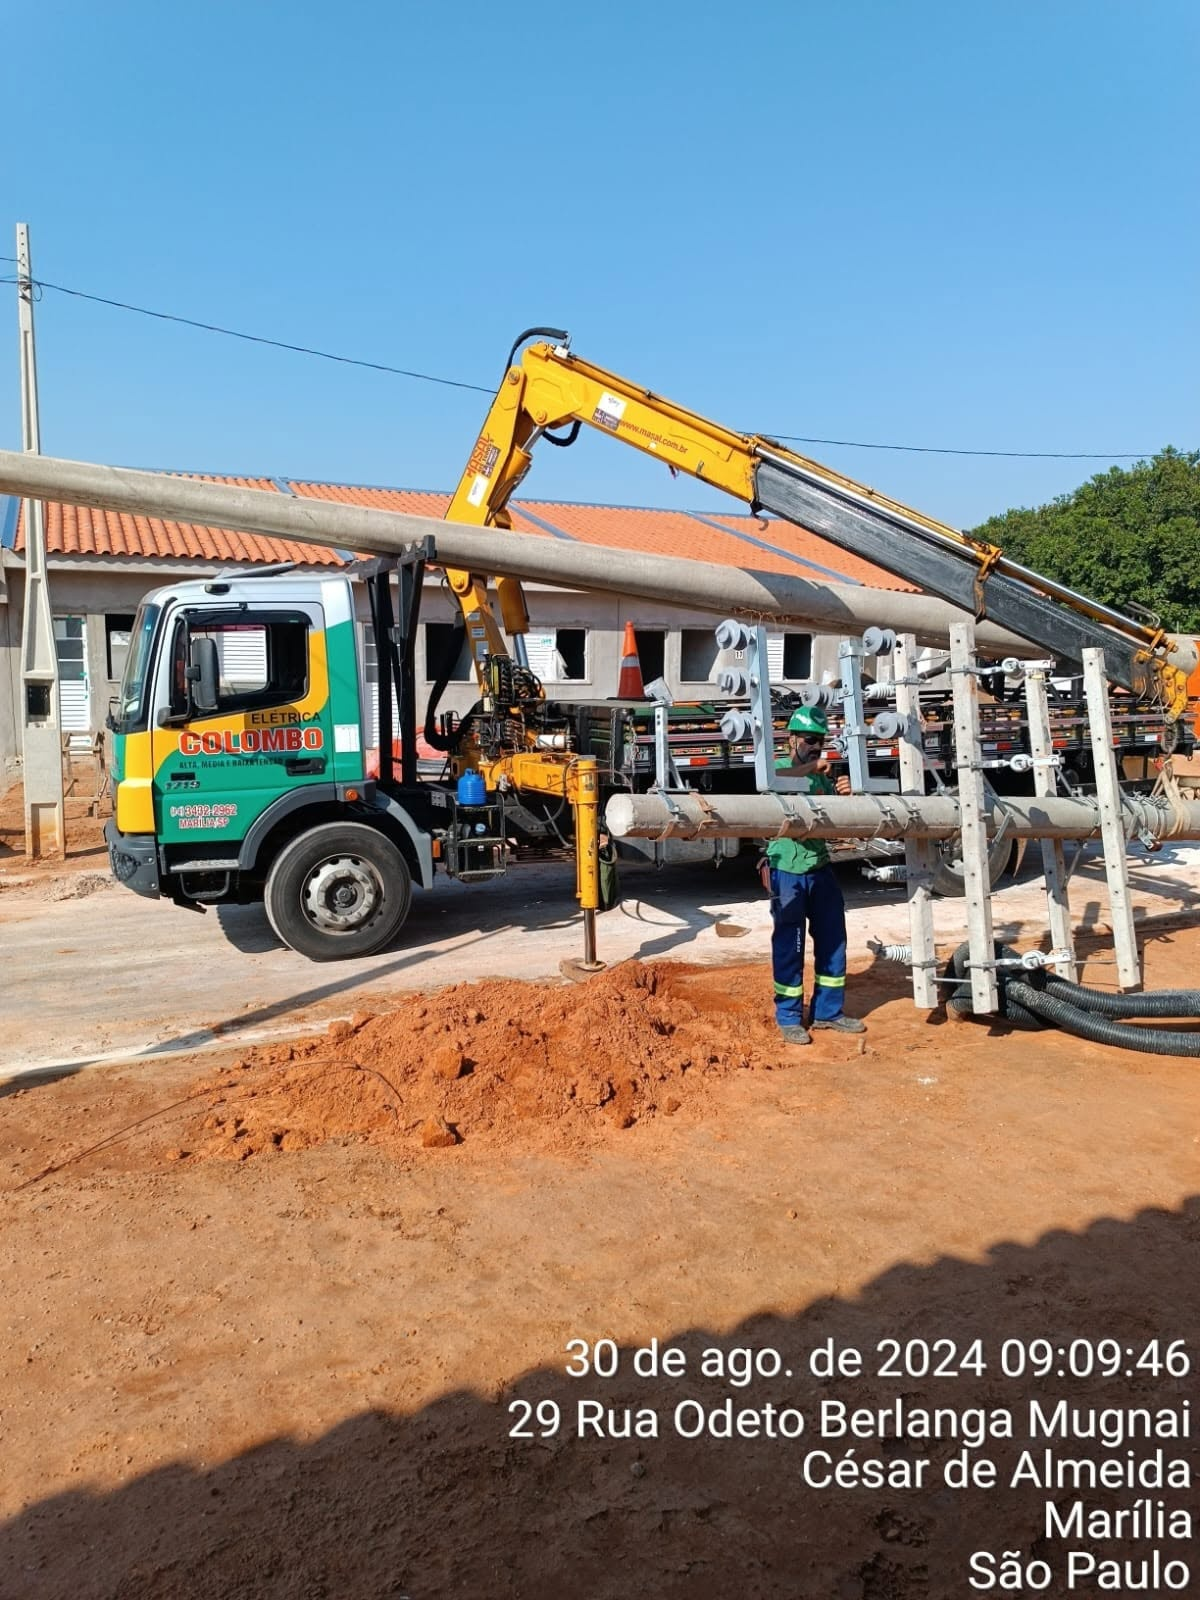
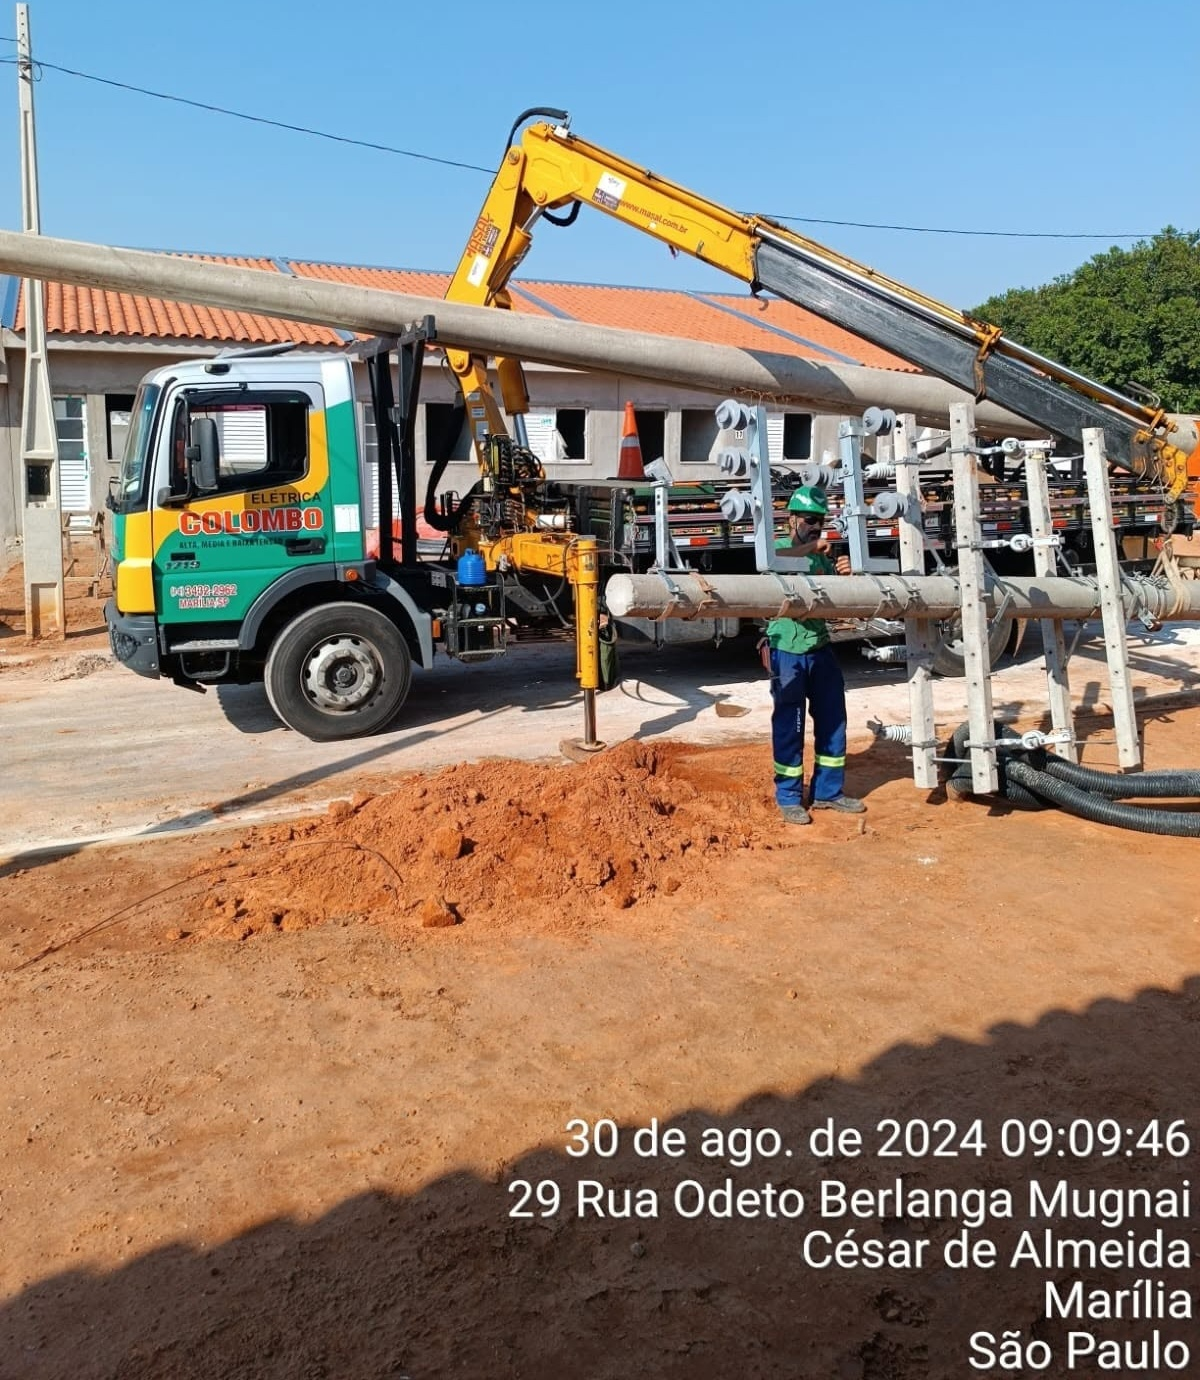
fix: ajustar enquadramento e proporcao para nao cortar o caminhao em servicos, home, obras e empresa

diff --git a/empresa.html b/empresa.html
@@ -235,7 +235,7 @@
             <div class="rounded-[3px] overflow-hidden border border-zinc-300 shadow-sm bg-colombo-dark">
               <img src="assets/frota-3-caminhoes.jpg"
                 alt="Frota com 3 caminhões munck oficiais da Elétrica Colombo operando com cesto aéreo"
-                class="w-full h-64 object-cover object-center">
+                class="w-full h-72 sm:h-80 md:h-96 object-cover object-[center_bottom]">
               <div class="p-4 bg-colombo-dark text-white">
                 <span class="text-[10px] font-mono text-colombo-yellow uppercase font-bold tracking-wider">FROTA E
                   EQUIPAMENTOS PRÓPRIOS</span>
@@ -399,7 +399,7 @@
               <div class="rounded-[2px] overflow-hidden border border-zinc-600 bg-zinc-900">
                 <img src="assets/cesto-flora-marilia.jpg"
                   alt="Operação da Elétrica Colombo com cesto aéreo duplo em poste de concreto"
-                  class="w-full h-48 sm:h-56 object-cover object-center">
+                  class="w-full h-56 sm:h-64 md:h-72 object-cover object-[center_bottom]">
                 <div class="p-3 bg-colombo-darker">
                   <span class="text-[10px] text-colombo-yellow font-mono font-bold uppercase">INTERVENÇÃO EM
                     ALTURA</span>
@@ -410,7 +410,7 @@
               <div class="rounded-[2px] overflow-hidden border border-zinc-600 bg-zinc-900">
                 <img src="assets/munck-perfuratriz-solo.jpg"
                   alt="Caminhão munck da frota equipado com perfuratriz hidráulica para engastamento de postes"
-                  class="w-full h-48 sm:h-56 object-cover object-center">
+                  class="w-full h-56 sm:h-64 md:h-72 object-cover object-[center_bottom]">
                 <div class="p-3 bg-colombo-darker">
                   <span class="text-[10px] text-colombo-green font-mono font-bold uppercase">PERFURAÇÃO E
                     IÇAMENTO</span>

diff --git a/obras.html b/obras.html
@@ -254,7 +254,7 @@
             <div class="aspect-[4/3] bg-zinc-900 overflow-hidden relative">
               <img src="assets/frota-3-caminhoes.jpg"
                 alt="Frota com 3 caminhões munck oficiais da Elétrica Colombo com cesto aéreo duplo"
-                class="w-full h-full object-cover object-center">
+                class="w-full h-full object-cover object-[center_bottom]">
               <span
                 class="absolute top-2.5 left-2.5 bg-colombo-dark/90 text-colombo-yellow text-[10px] font-mono font-bold uppercase px-2 py-0.5 rounded-[2px]">
                 FROTA PRÓPRIA
@@ -286,7 +286,7 @@
             <div class="aspect-[4/3] bg-zinc-900 overflow-hidden relative">
               <img src="assets/obra-ponte-rodovia.jpg"
                 alt="Caminhão munck da Elétrica Colombo operando em ponte metálica rodoviária"
-                class="w-full h-full object-cover object-center">
+                class="w-full h-full object-cover object-[center_bottom]">
               <span
                 class="absolute top-2.5 left-2.5 bg-colombo-dark/90 text-colombo-green text-[10px] font-mono font-bold uppercase px-2 py-0.5 rounded-[2px]">
                 OBRAS ESPECIAIS
@@ -318,7 +318,7 @@
             <div class="aspect-[4/3] bg-zinc-900 overflow-hidden relative">
               <img src="assets/munck-perfuratriz-solo.jpg"
                 alt="Caminhão munck com perfuratriz de solo para postes de concreto"
-                class="w-full h-full object-cover object-center">
+                class="w-full h-full object-cover object-[center_bottom]">
               <span
                 class="absolute top-2.5 left-2.5 bg-colombo-dark/90 text-colombo-yellow text-[10px] font-mono font-bold uppercase px-2 py-0.5 rounded-[2px]">
                 PERFURAÇÃO PRÓPRIA

diff --git a/servicos.html b/servicos.html
@@ -165,7 +165,7 @@
             <div class="rounded-[2px] overflow-hidden border border-zinc-300 shadow-sm bg-zinc-900">
               <img src="assets/cesto-flora-marilia.jpg" 
                    alt="Instalação e manutenção de rede de alta e baixa tensão em Marília" 
-                   class="w-full h-64 object-cover object-center">
+                   class="w-full h-80 sm:h-96 md:h-[400px] object-cover object-[center_bottom]">
             </div>
           </div>
           <div class="lg:col-span-7 order-1 lg:order-2 space-y-3">
@@ -304,7 +304,7 @@
             <div class="rounded-[2px] overflow-hidden border border-zinc-300 shadow-sm bg-zinc-900">
               <img src="assets/obra-poste-marilia.jpg" 
                    alt="Caminhão munck da Elétrica Colombo operando na implantação de postes e redes" 
-                   class="w-full h-64 object-cover object-center">
+                   class="w-full h-80 sm:h-96 md:h-[400px] object-cover object-[center_bottom]">
             </div>
           </div>
         </div>
@@ -317,7 +317,7 @@
             <div class="rounded-[2px] overflow-hidden border border-zinc-300 shadow-sm bg-zinc-900">
               <img src="assets/obra-rodovia-cesto.jpg" 
                    alt="Montagem de estrutura elétrica e proteção atmosférica em altura" 
-                   class="w-full h-64 object-cover object-center">
+                   class="w-full h-80 sm:h-96 md:h-[400px] object-cover object-[center_bottom]">
             </div>
           </div>
           <div class="lg:col-span-7 order-1 lg:order-2 space-y-3">

diff --git a/index.html b/index.html
@@ -402,7 +402,7 @@
                 <div class="aspect-[4/3] overflow-hidden rounded-[2px] border border-zinc-600 bg-zinc-900 mb-2">
                   <img src="assets/obra-poste-marilia.jpg"
                     alt="Caminhão munck da Elétrica Colombo implantando poste de rede em Marília"
-                    class="w-full h-full object-cover object-center group-hover:scale-105 transition-transform duration-300">
+                    class="w-full h-full object-cover object-[center_bottom] group-hover:scale-105 transition-transform duration-300">
                 </div>
                 <h3 class="font-display font-bold text-xs uppercase tracking-wide text-white leading-tight">
                   IMPLANTAÇÃO DE POSTES
@@ -417,7 +417,7 @@
                 <div class="aspect-[4/3] overflow-hidden rounded-[2px] border border-zinc-600 bg-zinc-900 mb-2">
                   <img src="assets/frota-3-caminhoes.jpg"
                     alt="Frota com 3 caminhões munck oficiais da Elétrica Colombo operando com cesto aéreo"
-                    class="w-full h-full object-cover object-center group-hover:scale-105 transition-transform duration-300">
+                    class="w-full h-full object-cover object-[center_bottom] group-hover:scale-105 transition-transform duration-300">
                 </div>
                 <h3 class="font-display font-bold text-xs uppercase tracking-wide text-white leading-tight">
                   FROTA PRÓPRIA MUNCK
